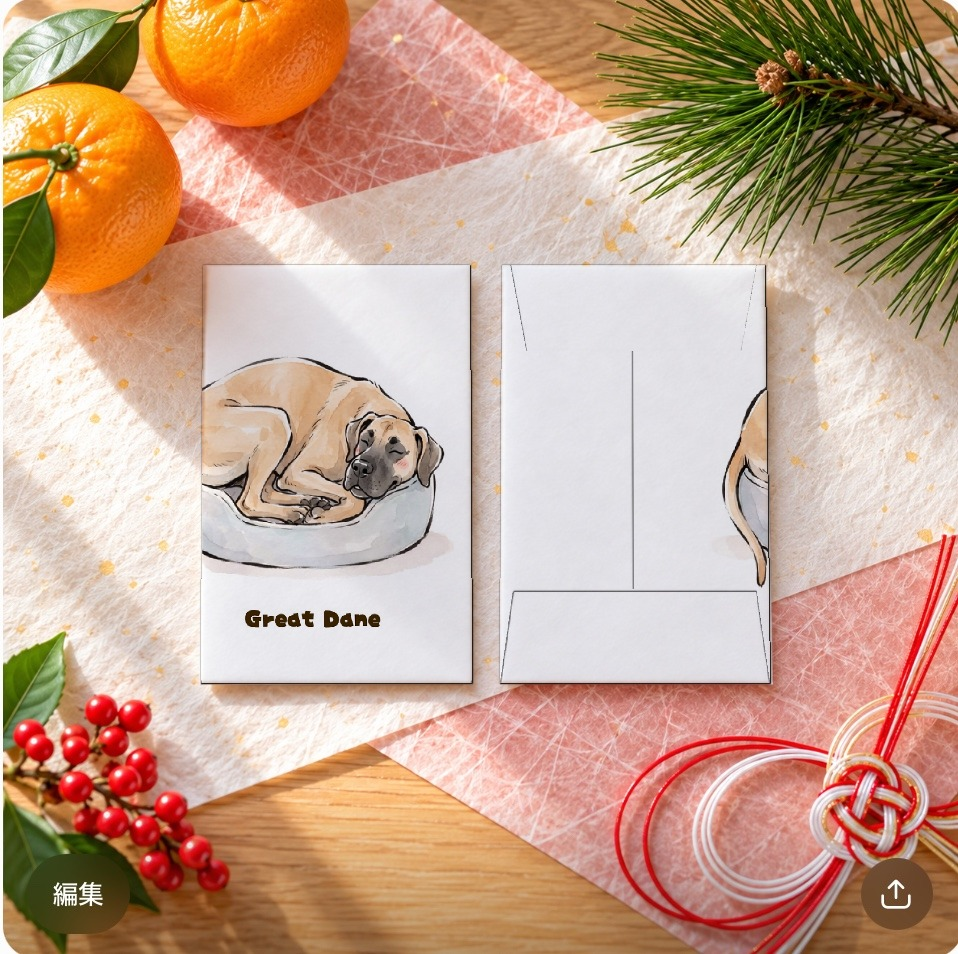
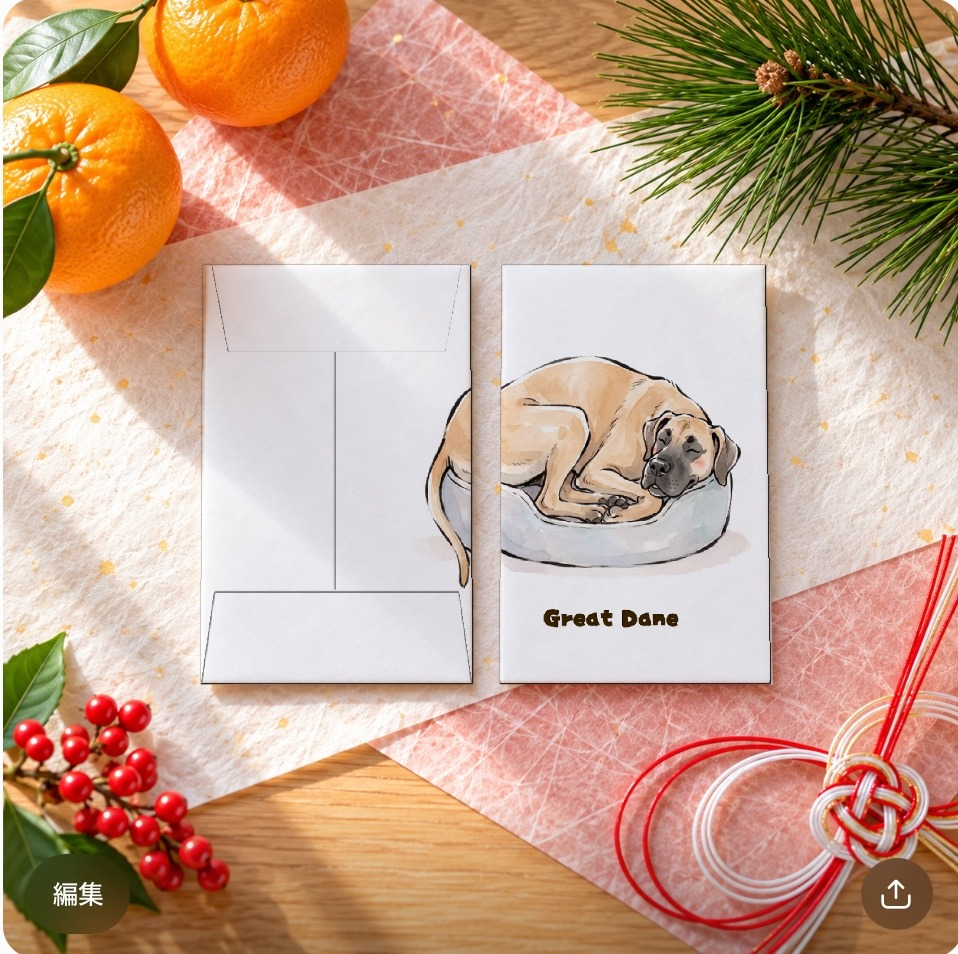
グレート・デーンの場面写真を、左にうしろ・右におもての並びに変更
Claude-Session: https://claude.ai/code/session_01QWjhnwkGtLBYh5aBhsN5Vu

Changed region(s): [[0.2119, 0.3648, 0.8173, 0.6384], [0.5449, 0.6384, 0.7265, 0.6688], [0.2422, 0.6384, 0.3935, 0.6688]]

diff --git a/shop/make_scene_blank.py b/shop/make_scene_blank.py
@@ -13,8 +13,9 @@ HERE = Path(__file__).parent
 # 名前: (場面の画像, [(貼る絵, 袋の四隅[左上・右上・右下・左下]), ...])
 SCENES = {
     "greatdane_2": ("154.jpg", [
-        (HERE / "check/front_greatdane_final.png", [(203, 265), (470, 265), (472, 683), (201, 683)]),
-        (HERE / "check/back_greatdane_final.png", [(502, 265), (765, 265), (770, 683), (500, 683)]),
+        # 左にうしろ、右におもて(ユーザーの案)。うしろの右端のしっぽと、おもての左端のおしりがつながって見える
+        (HERE / "check/back_greatdane_final.png", [(203, 265), (470, 265), (472, 683), (201, 683)]),
+        (HERE / "check/front_greatdane_final.png", [(502, 265), (765, 265), (770, 683), (500, 683)]),
     ]),
 }
 
